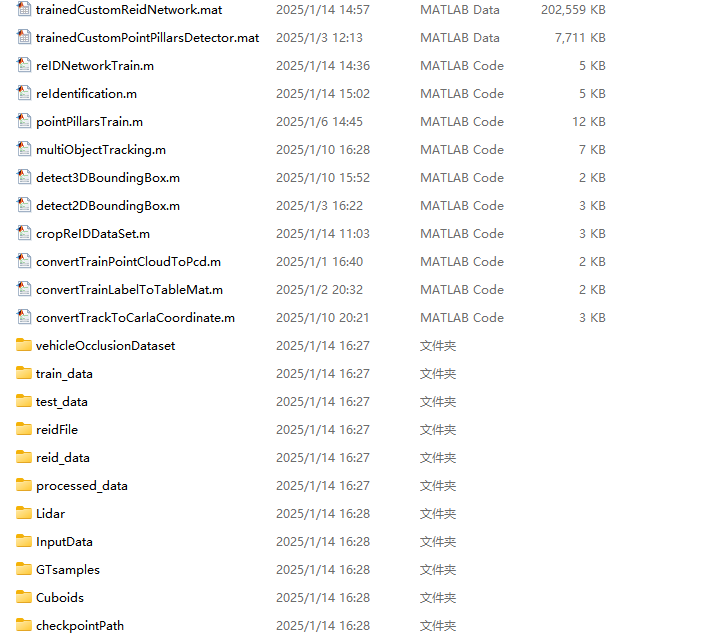
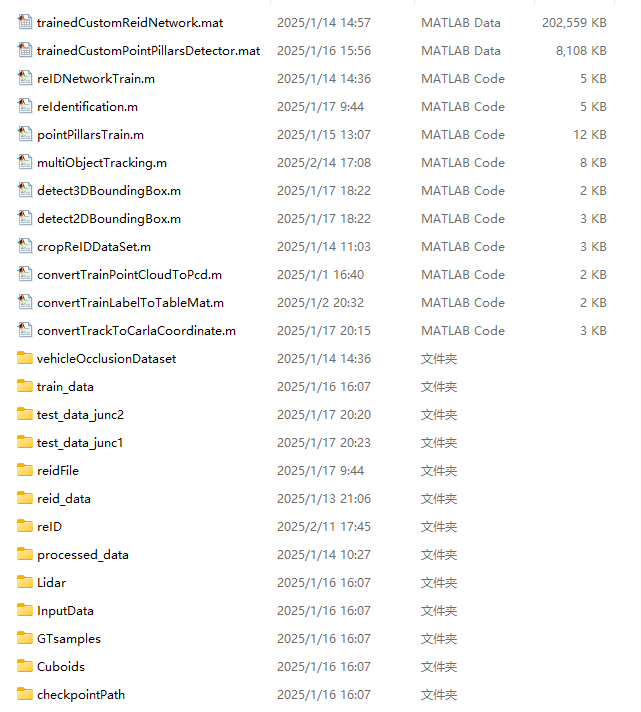
路口间作轨迹匹配

diff --git a/waypoint_control/multi_obj_track/reID/Utils/linkIdentities.m b/waypoint_control/multi_obj_track/reID/Utils/linkIdentities.m
@@ -1,0 +1,123 @@
+function traj = linkIdentities(current_intersection_traj, next_intersection_traj)
+    threshold = 0.5;
+    % 路口的轨迹
+    this_traj = current_intersection_traj.traj;
+    next_traj = next_intersection_traj.traj;
+    this_features = extractFeatures(this_traj);
+    next_features = extractFeatures(next_traj);
+
+    % 计算相似度矩阵，使用欧氏距离或余弦相似度
+    similarity_matrix = computeSimilarityMatrix(this_features, next_features);
+    % 使用相似度矩阵进行轨迹匹配
+    matched_trajectories = matchTrajectories(similarity_matrix, threshold);
+    
+
+    ids1 = cell(1, numel(this_traj));  % 创建一个空 cell 数组来存储结果
+    for i = 1:numel(this_traj)
+         if isempty(this_traj{i})  % 如果该 cell 为空
+             ids1{i} = -1;  % 返回 -1
+         else
+             ids1{i} = this_traj{i}.trackID;  % 否则提取 trackID
+         end
+    end
+    ids1 = [ids1{:}]';  % 将 ids 转换为列向量
+
+    ids2 = cell(1, numel(next_traj));  % 创建一个空 cell 数组来存储结果
+    for i = 1:numel(next_traj)
+         if isempty(next_traj{i})  % 如果该 cell 为空
+             ids2{i} = -1;  % 返回 -1
+         else
+             ids2{i} = next_traj{i}.trackID;  % 否则提取 trackID
+         end
+    end
+    ids2 = [ids2{:}]';  % 将 ids 转换为列向量
+
+     % 合并匹配结果
+    traj = mergeResults(this_traj, matched_trajectories, next_traj, ids1, ids2);
+
+end
+
+function features = extractFeatures(traj)
+    % 假设每个轨迹的特征是一个 1x2048 的向量
+    num_points = numel(traj);  % 轨迹点的数量
+    features = zeros(num_points, 2048, 'single');  % 创建一个 1x2048 特征矩阵
+
+    for i = 1:num_points
+        if isempty(traj{i})  % 检查轨迹点是否为空
+            features(i, :) = NaN(1, 2048);  % 如果空，返回 NaN 或者可以设置其他默认值
+        else
+            features(i, :) = traj{i}.mean_hsv;  % 提取轨迹点的特征，假设是 1x2048 的向量
+        end
+    end
+end
+
+function similarity_matrix = computeSimilarityMatrix(features1, features2)
+    % 计算相似度矩阵，使用欧氏距离或余弦相似度
+    num_traj_1 = size(features1, 1);
+    num_traj_2 = size(features2, 1);
+    similarity_matrix = zeros(num_traj_1, num_traj_2);
+
+    for i = 1:num_traj_1
+        for j = 1:num_traj_2
+            % 计算余弦相似度为相似度度量
+            similarity_matrix(i, j) = 1-pdist2(features1(i, :),features2(j, :),"cosine");
+        end
+    end
+end
+
+function matched_trajectories = matchTrajectories(similarity_matrix, threshold)
+    % 使用相似度矩阵进行轨迹匹配
+    % 如果相似度大于设定的阈值，则认为是匹配的
+    matched_trajectories = similarity_matrix > threshold;
+end
+
+function traj = mergeResults(this_traj, matched_trajectories, next_traj, ids1, ids2)
+    % 创建一个空的 cell 数组来存储合并后的轨迹
+    merged_traj = {};  % 存储合并后的轨迹
+    merged_ids = {};  % 存储合并后的轨迹 ID
+    % 获取当前路口和下一个路口轨迹的数量
+    num_current_trajectories = numel(this_traj);
+    num_next_trajectories = numel(next_traj);
+    % 遍历 matched_trajectories 矩阵，匹配为 1 的位置
+    for i = 1:num_current_trajectories
+        for j = 1:num_next_trajectories
+            if matched_trajectories(i, j) == 1
+                % 如果当前轨迹和下一个路口的轨迹匹配，合并这两个轨迹
+                merged_traj{end+1} = mergeTwoTrajectories(this_traj{i}, next_traj{j});
+                merged_ids{end+1} = {ids1(i), ids2(j)};  % 这将保存一个 cell，包含两个 ID
+            end
+        end
+    end
+
+     % 处理当前路口的轨迹没有匹配的情况
+    for i = 1:num_current_trajectories
+        % 如果当前轨迹没有与下一个路口的轨迹匹配，直接保留当前轨迹
+        if all(matched_trajectories(i, :) == 0)  % 当前轨迹没有与任何下一个轨迹匹配
+            merged_traj{end+1} = this_traj{i};
+            merged_ids{end+1} = {ids1(i)};  % 只保存当前轨迹的 ID
+        end
+    end
+    
+    % 处理下一个路口的轨迹没有匹配的情况
+    for j = 1:num_next_trajectories
+        % 如果下一个路口的轨迹没有与任何当前轨迹匹配
+        if all(matched_trajectories(:, j) == 0)  % 如果该轨迹没有与任何当前路口轨迹匹配
+            merged_traj{end+1} = next_traj{j};  % 保留下一个路口的轨迹
+            merged_ids{end+1} = {ids2(j) + num_current_trajectories};  % 更新下一个路口轨迹的 ID
+        end
+    end
+
+     % 返回合并后的结果
+    traj = struct('traj', merged_traj, 'ids', merged_ids);
+end
+
+function merged_trajectory = mergeTwoTrajectories(trajectory1, trajectory2)
+    % 合并两个轨迹的功能函数
+    merged_wrl_pos = [trajectory1.wrl_pos; trajectory2.wrl_pos];
+    
+    % 创建新的结构体来存储合并后的轨迹
+    merged_trajectory = trajectory1;  % 复制第一个轨迹的信息
+    
+    % 更新合并后的 wrl_pos 字段
+    merged_trajectory.wrl_pos = merged_wrl_pos;  % 合并后的位置信息
+end

diff --git a/waypoint_control/multi_obj_track/reID/Utils/DEMO.m b/waypoint_control/multi_obj_track/reID/Utils/DEMO.m
@@ -1,37 +1,6 @@
-% 初始化和配置
-clc; close all; clear
-% 添加一个工具函数文件夹路径
-addpath(genpath('utils')); config; mydir = pwd;
-cd('D:\utilities\gurobi\win64\matlab'); gurobi_setup; cd(mydir);
-
-% 参数配置
-dataset.frame_range = [56001 61000]; % ~5mins
-dataset.t_window    = 5000; % ~40secs
-dataset.group_size  = 80;
-dataset.visualize   = false; % 设置为 false，表示暂时不进行可视化。
-% 如果为 true，则重新计算目标的特征；如果为 false，则加载已经计算好的特征。
-computeFeatures     = false; 
-
-%% 加载轨迹并计算特征
-if computeFeatures, [traj, traj_f] = loadAllTraj(dataset); save('traj.mat', 'traj', 'traj_f'); else load('traj.mat'); end %#ok
-
-%% 计算身份
-startTime = dataset.frame_range(1); endTime = dataset.frame_range(1) + dataset.t_window - 1;    % initialize range
-
-while startTime <= dataset.frame_range(2)
-    % print loop state
-    clc; fprintf('Window %d...%d\n', startTime, endTime);
-    
-    % attach tracklets and store trajectories as they finish
-    traj = linkIdentities(traj , traj_f, startTime, endTime, dataset);
-    
-    % update loop range
-    startTime = endTime   - dataset.t_window/2;
-    endTime   = startTime + dataset.t_window;
-end
-%  解析输出并保存
-output = parseOutput(traj, dataset.cameras);
-dlmwrite('final_output.txt', output, 'delimiter', ' ', 'precision', 6);
+junc1Tracks = load('test_data_junc1_traj.mat'); 
+junc2Tracks = load('test_data_junc2_traj.mat'); 
+traj = linkIdentities(junc1Tracks.trackerOutput, junc2Tracks.trackerOutput);
 
 %% 可视化结果
-drawOnMap(traj);
+%drawOnMap(traj);

diff --git a/waypoint_control/README.md b/waypoint_control/README.md
@@ -91,6 +91,24 @@ pip install -r requirements.txt
 
 ![](../img/reid.jpg)
 
+#### 路口间车辆轨迹匹配
+
+**1.生成可作匹配的轨迹**
+
+多目标跟踪[multiObjectTracking.m](./multi_obj_track/multiObjectTracking.m)可视化跟踪的车辆，输出trackedData.mat的同时，也保存了每条轨迹所对应车辆的图片，该图片是通过结合所融合的3D框和Yolo识别的2D框判断为通一辆车后，选择该2D框进行裁剪，重塑生成可作特征提取的224×224大小的图片。
+
+执行[loadAllTraj.m](./multi_obj_track/reID/Utils/loadAllTraj.m) 设置**指定路口**生成轨迹。
+
+注意 ！
+
+```
+由于是多个路口的轨迹匹配，因此需要选择不同路口作多目标跟踪生成轨迹，再生成可匹配的轨迹，期间要更新路口。
+```
+
+**2.车辆轨迹匹配**
+
+目前是仅是通过计算两个路口间全部轨迹所对应车辆的余弦相似度来匹配，若路口1有M辆车，路口2有N辆车，则生成M×N的矩阵，其中大于一定的阈值，则判定两辆车为同一辆车。
+
 #### 项目文件目录
 
 如下图所示，是项目的完整目录，但只包含了一个路口的多目标跟踪数据。
